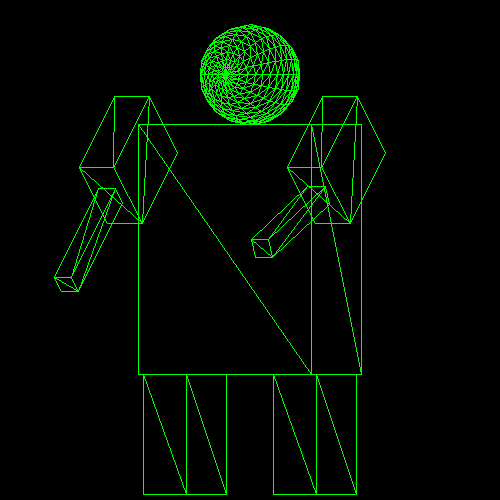
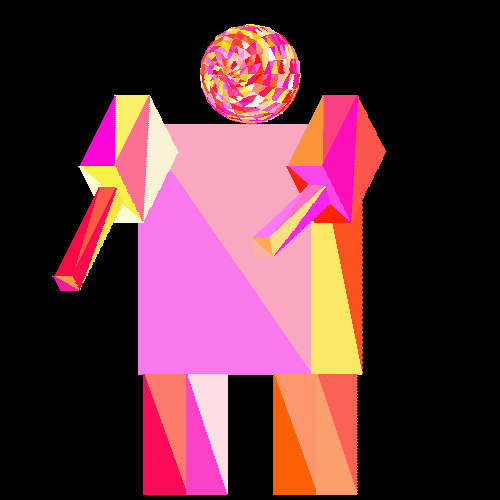
updated work

diff --git a/draw.py b/draw.py
@@ -38,6 +38,9 @@ def scanline_convert(polygons, i, screen, zbuffer ):
     yt = t[1]
     yb = b[1]
     ym = m[1]
+    zt = t[2]
+    zb = b[2]
+    zm = m[2]
 
     x0 = xb
     x1 = xb
@@ -94,7 +97,6 @@ def draw_polygons( polygons, screen, zbuffer, color ):
         normal = calculate_normal(polygons, point)[:]
         #print normal
         if normal[2] > 0:
-            i = 0
             scanline_convert(polygons, point, screen, zbuffer )
             '''draw_line( int(polygons[point][0]),
                        int(polygons[point][1]),

diff --git a/display.py b/display.py
@@ -31,7 +31,7 @@ def new_zbuffer( width = XRES, height = YRES ):
 def plot( screen, zbuffer, color, x, y, z ):
     newy = YRES - 1 - y
     if ( x >= 0 and x < XRES and newy >= 0 and newy < YRES ):
-        screen[newy][x] = color[:]
+        screen[int(newy)][int(x)] = color[:]
 
 def clear_screen( screen ):
     for y in range( len(screen) ):
